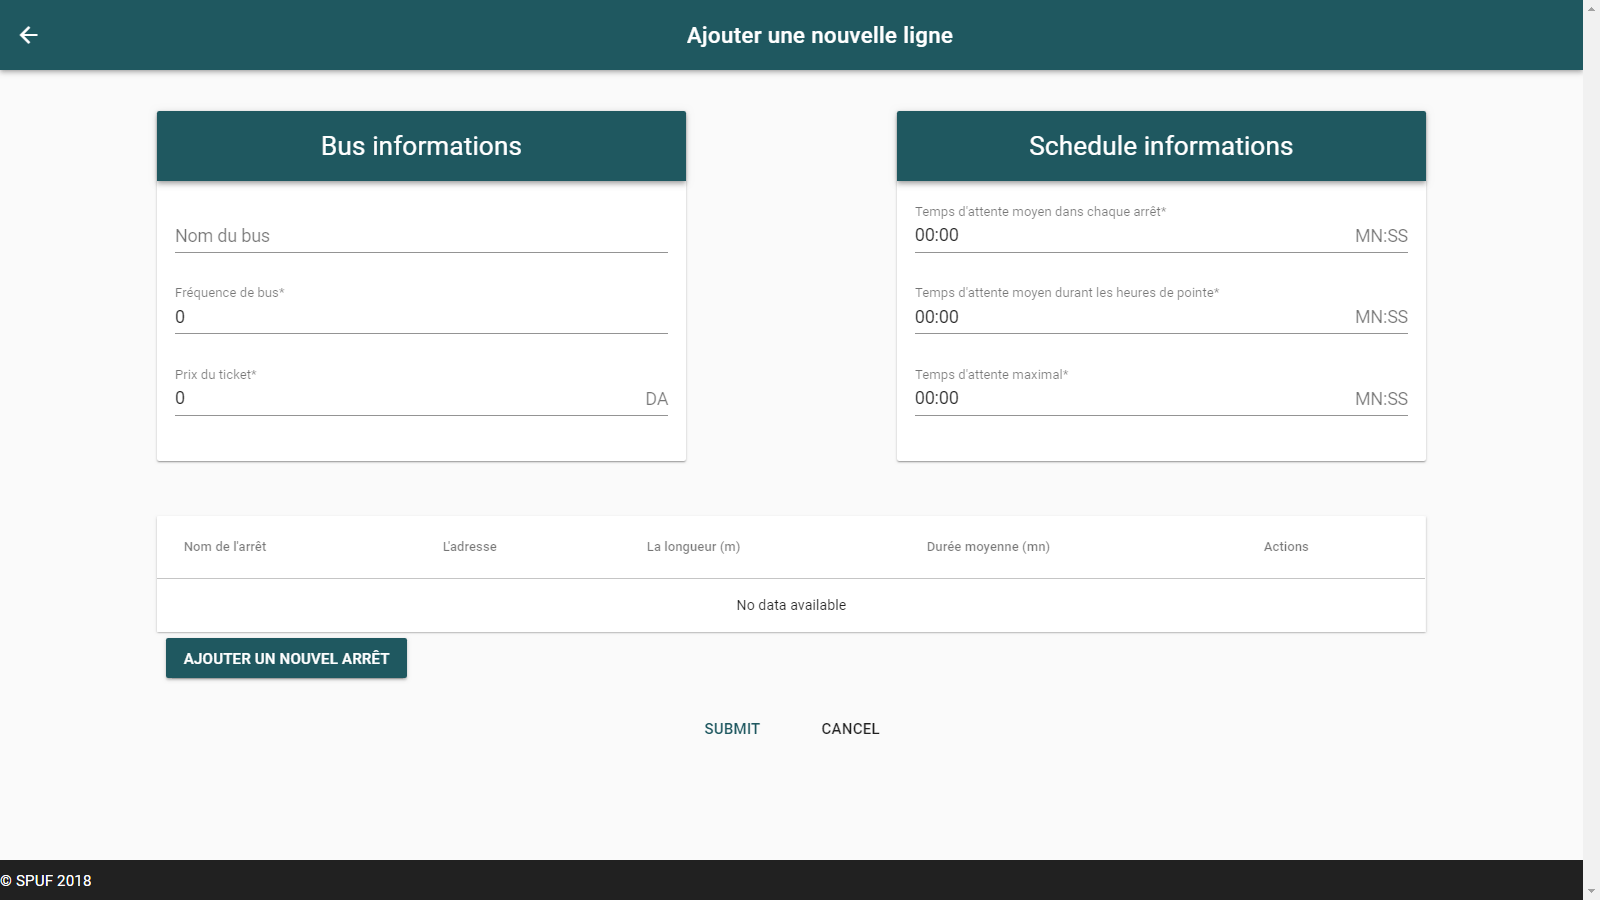
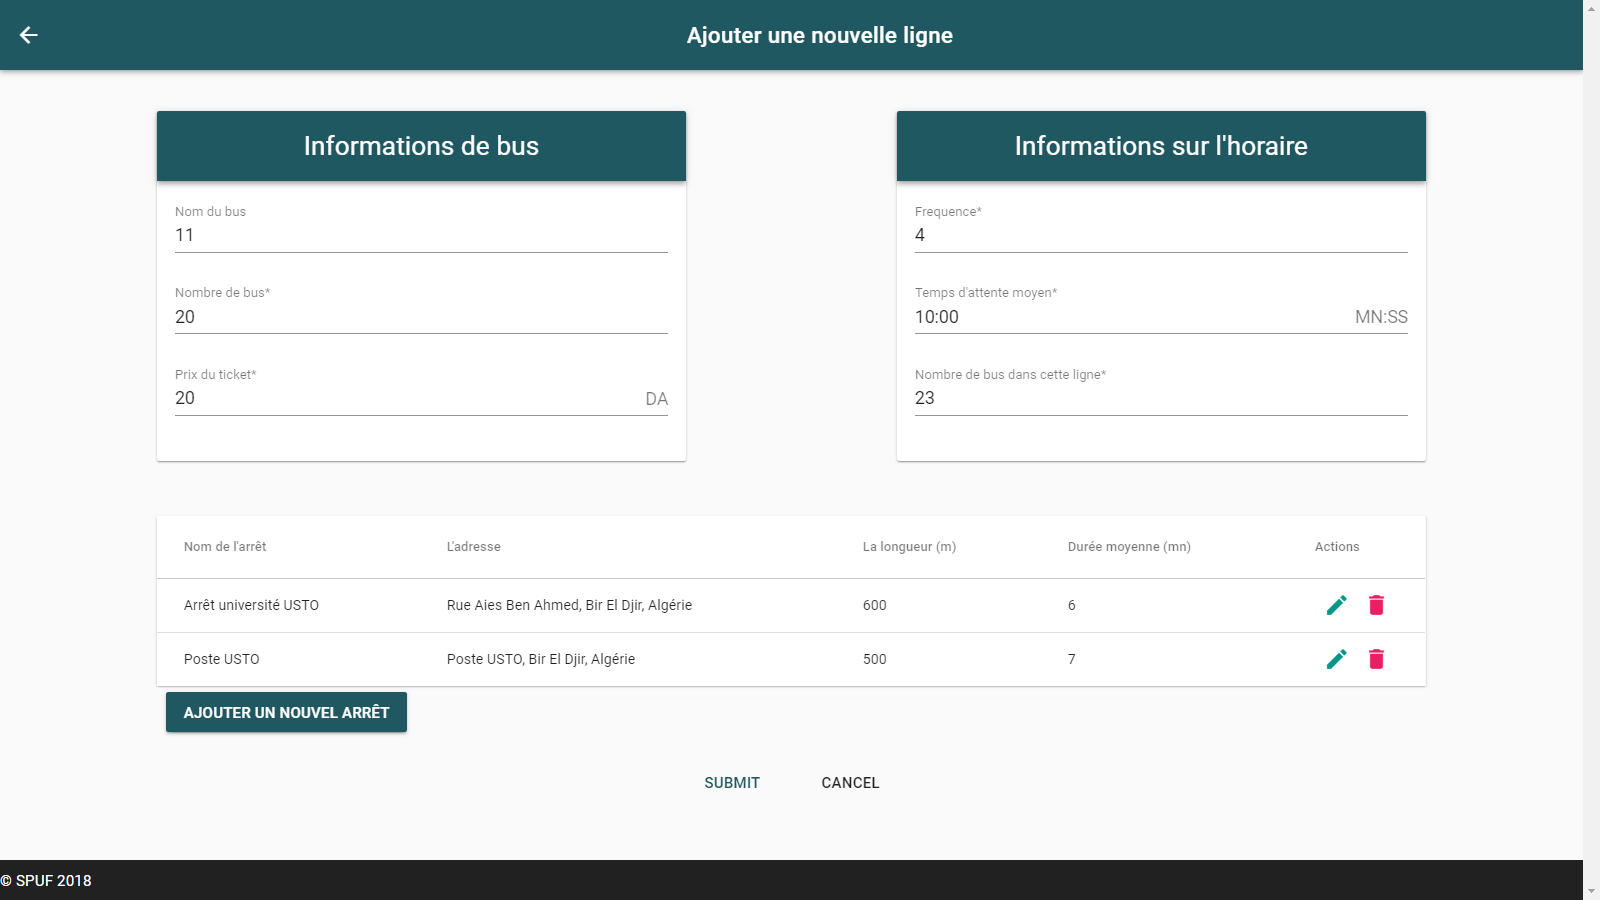
added corrections chap 1 2 et 3

diff --git a/Parts/ChapitreIntroduction.tex b/Parts/ChapitreIntroduction.tex
@@ -12,7 +12,7 @@ Ajouté à cela un grand nombre de lignes de bus, avec une organisation presque 
 Ces facteurs contribuent encore à la confusion des usagers et touristes souhaitant utiliser ces transports.
 
 \section{Problématique}
-Trouver un chemin optimal faisant bon usage de différents moyens de transport pour une personne est une tâche bien difficile, car cela demande principalement une connaissance parfaite de toute la ville, chose qui est impossible notamment pour un touriste.\newline
+Trouver un chemin optimal faisant bon usage de différents moyens de transport pour une personne est une tâche bien difficile, car cela demande principalement une connaissance parfaite de tous les moyens de transport dans la ville, chose qui est impossible notamment pour un touriste.\newline
 
 Le choix du chemin dépend aussi de plusieurs facteurs : la situation et les préférences de chaque personne, ainsi que le jour du trajet, l'heure et la météo. Par exemple, un usager peut choisir habituellement de marcher vers un arrêt de tramway et
 puis le prendre jusqu'à sa destination, mais préfère, en jour de pluie ou suite à défaut de pouvoir marcher, de prendre deux bus avec un chemin plus long.
@@ -20,14 +20,14 @@ puis le prendre jusqu'à sa destination, mais préfère, en jour de pluie ou sui
 Notre but est donc de créer un outil qui aide à cette décision, qui sera ensuite adapté à la ville d'Oran.
 
 \section{Analyse de besoins}
-La création d'un outil qui aide à cette décision présente plusieurs problématiques, avant de commencer le projet, nous sommes amenés à répondre aux questions suivantes :
+La création d'un outil qui aide à trouver son chemin présente plusieurs problématiques, avant de commencer le projet, nous sommes amenés à répondre aux questions suivantes :
 \begin{itemize}
 	\item Quels sont les différents usagers des transports communs, et quel est le besoin de chaque profile?
 	\item Quels sont ces différents facteurs et critères à considérer lors de cette décision?
 	\item Quelles sont les différentes difficultés et contraintes qui peuvent affecter cette décision?
 	\item Peut-on offrir une solution informatique évoluée pour assister à cette décision? Si oui : 
 	      \begin{itemize}
-	      	\item Comment représenter un réseau routier d'une ville comme Oran, et contenant plusieurs moyens de transport ?
+	      	\item Comment représenter un réseau de transport routier d'une ville comme Oran, et contenant plusieurs moyens de transport ?
 	      	\item Comment calculer un chemin sur ce réseau, et comment déterminer un chemin optimal ?
 	      	\item Comment inclure les différentes préférences et circonstances de chaque utilisateur ?
 	      	\item Comment présenter cette solution aux usagers de manière simple et efficace ?
@@ -38,7 +38,7 @@ La création d'un outil qui aide à cette décision présente plusieurs problém
 Développer un guide de transport évolué a pour apport :
 \begin{itemize}
 	\item Gain considérable de temps et réduction de dépenses.
-	\item Assurer un meilleur respect d'horaire et d'itinéraires de la part des entreprises de transport, et ainsi avoir plus de confiance de la part des utilisateurs.
+	\item Assurer un meilleur respect d'horaires et d'itinéraires de la part des entreprises de transport, et ainsi avoir plus de confiance de la part des utilisateurs.
 	\item Encourager plus de citoyens à utiliser les transports en commun.
 	\item Améliorer la circulation en ville en diminuant le nombre d'utilisateurs de véhicules personnels et ainsi réduire les embouteillages.
 	\item Meilleure expérience pour les touristes et visiteurs de la ville d'Oran, nous citons comme exemple en ce moment l'événement de jeux méditerranéens qui attirera un grand nombre d'étrangers.
@@ -49,7 +49,7 @@ Développer un guide de transport évolué a pour apport :
 CityMapper est une application de transports en commun qui a été lancée à Londres en 2011.
 Elle propose les fonctionnalités suivantes : 
 \begin{itemize}
-	\item Découvrir de tous les moyens de transports en commun dans cette ville.
+	\item Découvrir tous les moyens de transports en commun dans la ville.
 	\item Obtenir les différents moyens pour arriver à la destination souhaitée.
 	\item Comparer le temps de chaque trajet.
 \end{itemize}
@@ -57,13 +57,15 @@ Elle propose les fonctionnalités suivantes :
 \begin{figure}[h!]
 	\center
 	\includegraphics[width=0.95\textwidth]{img/citymapper.png}
+	\label{fig:CityMapper}
 	\caption{Application web de CityMapper.}
 \end{figure}
 
 CityMapper couvre en ce moment 36 villes dont Londres, Berlin, Tokyo, Paris et New York...etc.  Un de ses avantages est la possibilité de prévoir un trajet en avance et de le télécharger pour qu'il soit disponible hors connexion.
+La figure \ref{fig:CityMapper} montre un exemple de recherche de chemin dans la ville de Milan (Italie).
 
 \subsection{RATP}
-L'application RATP est aujourd'hui le compagnon de transport pour Paris et l'ile de France.
+L'application RATP est aujourd'hui le compagnon des personnes qui prennent les transports sur Paris et l'ile de France.
 Parmi les services qu'elle propose, on cite:
 \begin{itemize}
 	\item Possibilité de trouver un itinéraire entre deux lieux, arrêts ou adresses en prenant en compte plusieurs modes de transport, l'horaire de départ/arrivée ainsi que plusieurs critères.
@@ -74,9 +76,11 @@ Parmi les services qu'elle propose, on cite:
 \begin{figure}[h!]
 	\center
 	\includegraphics[width=0.95\textwidth]{img/ratp.png}
+	\label{fig:RATP}
 	\caption{Application web de la RATP.}
 \end{figure}
 Un avantage particulier avec RATP est le fait qu'il peut être paramétré de manière à émettre des alertes en cas de perturbations ou éventuels retards sur une ligne particulière du fait qu'elle soit reliée directement au système d'information de la RATP (Régie Autonome des Transports Parisiens).
+La figure \ref{fig:RATP} montre un exemple du site web de cette application.
 
 \section{Solution proposée}
 Au moment de rédiger ce mémoire, aucune application n'offre ce service en Algérie. \newline
@@ -91,7 +95,7 @@ De ce fait, nous proposons de développer une application Web full-REST qui prop
 		\item Minimum de temps.
 		\item Minimum de marche.
 		\item Minimum de correspondance.
-		\item Minimum de cout.\newline
+		\item Minimum de coût.\newline
 	\end{itemize}	 
 \end{itemize}
 Ce projet sera composé de 04 parties :\newline
@@ -100,7 +104,7 @@ Ce projet sera composé de 04 parties :\newline
 
 	\item[Service Web: ] en ce moment, les Services Web sont une tendance sur le Web, presque indispensable dans toute application non triviale: nous commencerons donc par créer une API REST complète de l'application afin qu'elle soit facilement extensible et portable sur différentes plateformes par la suite.
 	
-	\item[Interface d'administrateur: ] implémenter une application indépendante qui va faciliter la  communication avec l'API pour l'ajout et modification des lignes de transport et autres informations nécessaires à l'application.
+	\item[Interface d'administration: ] implémenter une application indépendante qui va faciliter la  communication avec l'API pour l'ajout et modification des lignes de transport et autres informations nécessaires à l'application.
 	
 	
 	\item[Interface Web: ] implémenter une Application Web client afin de visualiser les fonctionnalités de l'API.
@@ -114,11 +118,11 @@ L'architecture de l'application devra être suffisamment flexible pour pouvoir a
 
 Après ce premier chapitre où nous avons présenté les objectifs du projet et la solution proposée;\newline
 
-Nous présenterons tout au long du Chapitre 2 ce qu'est un service Web, ses caractéristiques et avantages, nous explorerons ensuite deux manières concurrentes pour implémenter des Services Web : SOAP et REST pour débattre brièvement les points forts de chacune afin de justifier notre décision d'utiliser REST.\newline\newline
+Nous présenterons tout au long du chapitre 2 ce qu'est un service Web, ses caractéristiques et avantages, nous explorerons ensuite deux manières concurrentes pour implémenter des Services Web : SOAP et REST pour débattre brièvement les points forts de chacune afin de justifier notre décision d'utiliser REST.\newline\newline
 
 Le chapitre 3 présentera en première partie les notions requises relatives aux graphes et recherche de chemins, et traitera ensuite les différents détails concernant la représentation et stockage des données de l'application, nous parlerons du processus de la collecte de données et le résultat obtenu. \newline\newline
 
 
-Nous présenterons ensuite dans le chapitre 4 les différentes technologies qu'on a utilisé, nous expliquerons aussi la structure globale de l'application et les modèles de données que nous avons choisi, ces détails seront accompagnés par des aperçus des interfaces des deux applications.\newline\newline
+Nous présenterons ensuite dans le chapitre 4 les différentes technologies que nous avons utilisé. Nous expliquerons aussi la structure globale de l'application et les modèles de données que nous avons choisi. Ces détails seront accompagnés par des aperçus des interfaces des deux applications (client et administration).\newline\newline
 
-Nous évaluerons enfin dans le chapitre 5 l'avancement du projet, ainsi que les différentes perspectives et futures possibilités de ce dernier.
+Nous évaluerons enfin dans le chapitre 5 l'avancement du projet, ainsi que les futures possibilités de ce dernier.

diff --git a/Parts/ChapitreConclusion.tex b/Parts/ChapitreConclusion.tex
@@ -8,22 +8,26 @@ Nous avons proposé  de développer une application Web full-REST qui propose pl
 Nous avons divisé la résolution de ce problème en 4 parties:
 
 \begin{description}
-\item[Conception et stockage des données:] 
-\item[Service Web:]
-\item[Interface Web:]
-\item[Interface administrateur:]
+\item[Conception et stockage des données:] après avoir collecté les données, traiter et ajouter d'autres, nous les avons représenté sous forme de graphe: chaque noeud représente une station, et chaque arc entre deux stations représente le passage d'un transport.\newline
+Nous avons utilisé une base de donnée orientée graphe pour stocker ce graphe pré-construit, et bénéficier de meilleures performances dans les différentes opérations de lecture/écriture.
+\item[Service Web:] 
+\item[Interface Web:]  nous avons implémenté une interface client, où l'utilisateur peut entrer sa station de départ et d'arrivée, ainsi que les facteurs et le moyens de transports qu'il souhaite.
+Ensuite visualiser le résultat sous forme de étapes avec informations (temps, prix et distance).
+
+\item[Interface administrateur:] nous avons implémenté également une interface admin qui communique avec l'API pour l'ajout et modification des lignes de transport.
+
 \end{description}
 
 
-Lors de ce projet, nous avons fais face à certaines difficultés qui ont attardées la version complète de l'application, on cite en premier lieu la spécificité de nos lignes, le manque de données et la non disponibilité des données GPS, qui a suscité d'implémenter une interface administrateur permettant de mieux organiser nos informations.\newline\newline
+Lors de ce projet, nous avons fait face à certaines difficultés qui ont attardées la version complète de l'application, on cite en premier lieu la spécificité de nos lignes, le manque de données et la non disponibilité des données GPS, qui a suscité d'implémenter une interface administrateur permettant de mieux organiser nos informations.\newline\newline
 Ayant désormais une base solide de l'application, nous pouvons nous focaliser sur les idées et objectifs suivants au futur :
 \begin{itemize}
 	\item \textbf{Compléter les données:} en introduisant la liste complète des lignes et informations de transport pour avoir une application utilisable.
 	
-	\item \textbf{Enrichir les propriétés des stations: }en ajoutant des informations tel que :\newline
+	\item \textbf{Enrichir les propriétés des stations: }en ajoutant des informations tel que :
 		\begin{itemize}
-			\item \textbf{Disponibilité }: possibilité de rendre les stations en cas de travaux (ou autres perturbations) non actives pour quelques jours.
-			\item
+			\item \textbf{Disponibilité:} possibilité de rendre les stations en cas de travaux (ou autres perturbations) non actives pour quelques jours.
+			\item \textbf{Multiples coordonnées :} Pour pouvoir donner avec plus de précision la position des arrêts à prendre, du fait que dans certains cas, les arrêts pour différentes directions sont assez éloignés.
 		\end{itemize}
 		
 	\item \textbf{Ajouter la fonctionnalité de recherche du plus proche arrêt: } pour permettre de trouver un chemin à partir de n'importe quel point : cette fonctionnalité nécessite d'implémenter des \emph{opérations spatiales} sur le graphe. Par ailleurs, Neo4J permet déjà d'intégrer ces opérations facilement grâce à des librairies tel que \textbf{Neo4j Spatial}, et donc il ne sera pas nécessaire d'utiliser d'autres SGBD pour y arriver.

diff --git a/Parts/ChapitreServicesWeb.tex b/Parts/ChapitreServicesWeb.tex
@@ -84,7 +84,7 @@ Il existe d'autres variantes et version de HTTP, notamment HTTP 1.1, HTTP/2, et 
 %=================================================================
 %=========================== PARTIE SOAP ==========================
 %=================================================================
-\newpage
+
 \section{Services web SOAP} 
 \label{section:Soap}
 \subsection{Le protocole SOAP}
@@ -101,14 +101,17 @@ Un message SOAP est un document XML contenant les éléments suivants \cite{refT
 	\item \textbf{Body (Corps)} : contient les données XML du message à transporter, un élément obligatoire.
 	\item \textbf{Fault (Gestion d'erreurs)} : fournit des informations sur les erreurs qui peuvent se produire durant traitement de l'information, un élément optionnel.
 \end{itemize}
+Cette structure est résumée dans la figure \ref{fig:structureSOAP}.
+
 \begin{figure}[h]
 	\begin{center}
 		\includegraphics[scale=1]{img/soapmessagebody.png}
 	\end{center}	
-	\label{Structure message SOAP}
-	\caption{Structure message SOAP}		
+	\caption{Structure d'un message SOAP.}
+	\label{fig:structureSOAP}
 	\centering
-\end{figure}			
+\end{figure}
+
 Un message SOAP est un peu lourd, mais reste simple à comprendre et à utiliser. Sa structure offre une grande fiabilité par rapport au format de données, ainsi qu'un moyen de gérer les erreurs grâce au SOAP Fault.
 
 \subsection{L'architecture orientée services}
@@ -125,11 +128,12 @@ On trouve trois acteurs majeurs dans une architecture SOA de service web :
 	\item \textbf{Annuaire service registry} : 
 	      c'est un annuaire de services. Ce registre fournit un emplacement central où les développeurs peuvent publier leur nouveau service web, ou trouver d'autres existants.\newline 
 \end{itemize}
-
+La relation entre ces trois acteurs est décrite dans la figure \ref{fig:SOA}.
 \begin{figure}[h]
 	\center
 	\includegraphics[scale=0.71]{img/SOA.png}
-	\caption{Composants d'une architecture orientée services}		
+	\caption{Composants d'une architecture orientée services}
+	\label{fig:SOA}
 	\centering
 \end{figure}		
 
@@ -184,7 +188,6 @@ En résumé, une API est qualifiée de RESTful si elle respecte les critères de
 \textbf{API Web :} c'est une interface côté serveur qui consiste en un ou plusieurs \emph{points} (endpoints) publiques spécifiant la location d'une ressource et comment y accéder, souvent à travers une URI vers laquelle des requêtes (HTTP) sont envoyées, et par laquelle des réponses serveur sont attendues.
 Elle définit ainsi un système de requête/réponses entre le client et le serveur à partir de ces points.
 
-\newpage
 \subsection{Critères REST}
 Une API RESTful complète doit vérifier six (06) critères: \cite{refTutorialPointsREST}
 \begin{itemize}

diff --git a/Parts/ChapitreDeveloppement.tex b/Parts/ChapitreDeveloppement.tex
@@ -239,7 +239,10 @@ L'API retourne un tableau des chemins (tableau d'objets Path) en format JSON, ce
 	      \end{itemize}
 \end{itemize}
 
+Un exemple d'une réponse JSON est donné dans la figure \ref{fig:JSONPath}
+
 \begin{figure}
+\label{fig:JSONPath}
 \begin{lstlisting}[]
 ( A mettre a jour avec exemple de deux etapes )
 {
@@ -273,10 +276,11 @@ L'API retourne un tableau des chemins (tableau d'objets Path) en format JSON, ce
 \caption{Format JSON de Path (chemin)}
 \end{figure}
 
-\section{Implémentation}
+\newpage
+\section{Applications Front-End}
 \label{ref:Implementation}
-
-\begin{figure}
+\subsection{Interfaces client}
+\begin{figure}[h!]
 
 	 \begin{subfigure}[b]{\linewidth}
 	 	\includegraphics[width=\linewidth]{img/spuf/acceuil.png}
@@ -304,4 +308,20 @@ L'API retourne un tableau des chemins (tableau d'objets Path) en format JSON, ce
 	 	\caption{Page de réponse détaillée.}	 
 	 \end{subfigure}
 	 \caption{Aperçu de l'application client.}
+\end{figure}
+
+\newpage
+\subsection{Interfaces administrateur}
+
+\begin{figure}[h!]
+	 \begin{subfigure}[b]{\linewidth}
+	 	\includegraphics[width=\linewidth]{img/spuf/addline.png}
+	 	\caption{Page ajout de nouvelles lignes.}
+	 \end{subfigure}
+	 
+	 \begin{subfigure}[b]{\linewidth}
+	 	\includegraphics[width=\linewidth]{img/spuf/createstation.png}
+	 	\caption{Page ajout de nouvelle station.}	 
+	 \end{subfigure}
+	 \caption{Aperçu de l'application administrateur.}
 \end{figure}
